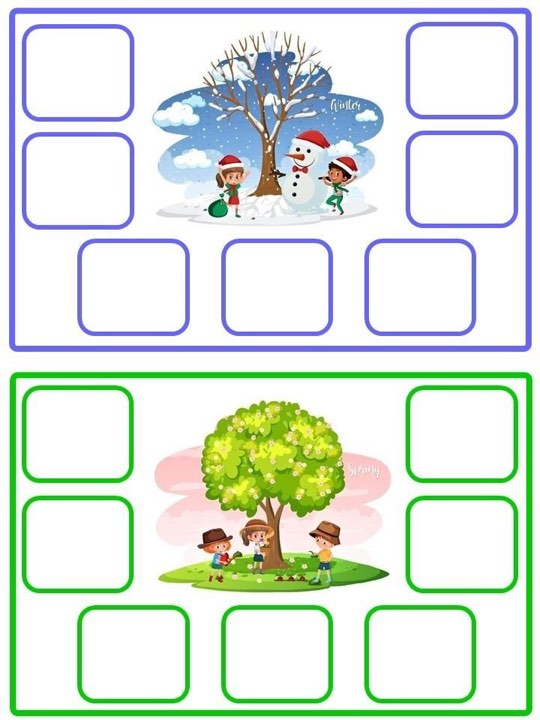
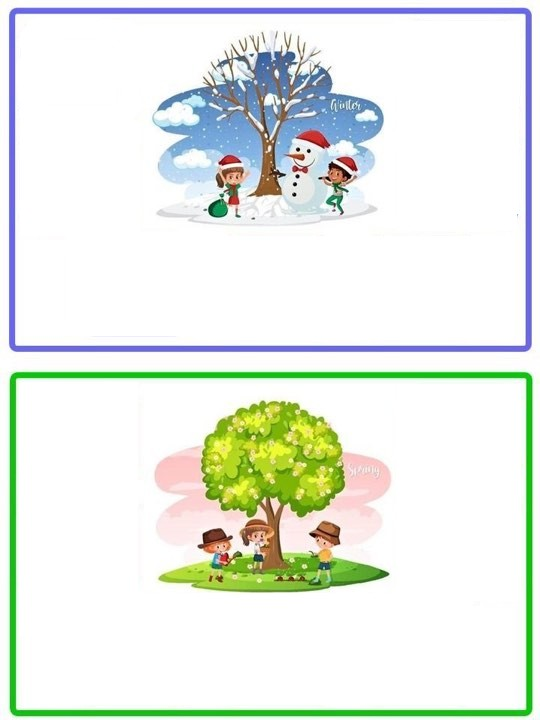
update 20:48 12/1/2024

diff --git a/game.css b/game.css
@@ -1695,10 +1695,7 @@ h3 {
   height: 9em;
 }
 
-.row {
-  display: flex;
-  margin-left: 600px;
-}
+
 
 .image-container {
   width: 150px;
@@ -2100,7 +2097,7 @@ h3 {
   -webkit-user-select: none;
   touch-action: manipulation;
   position: absolute;
-  bottom: 20%;
+  bottom: 10%;
   left: 60%;
 
 }
@@ -2342,7 +2339,8 @@ h3 {
     height: 70px;
     padding: 10px;
     border-radius: 16px;
-    background: white;
+    
+    
 }
 
 .droppable11 img {
@@ -2362,80 +2360,97 @@ h3 {
     position: absolute;
     left: 0;
     height: 100%;
+    width: 40%;
 }
 
 #draggable-row11{
-    margin-left: 600px;
+   margin-left: 400px;
+   
 }
+
 .droppable11:first-child{
-    position: absolute;
-    left: 28px;
-    top: 31px;
+  position: absolute;
+  left: 2%;
+  top: 3%;
+  border: 5px solid #6f6ed2;
 }
 .droppable11:nth-child(2){
     position: absolute;
-    left: 27px;
-    top: 142px;
+    left: 2%;
+    top: 18%;
+    border: 5px solid #6f6ed2;
 }
 .droppable11:nth-child(3){
     position: absolute;
-    left:86px;
-    top: 250px;
+    left:5%;
+    top: 33%;
+    border: 5px solid #6f6ed2;
 }
 .droppable11:nth-child(4){
     position: absolute;
-    left: 233px;
-    top: 250px;
+    left: 17%;
+    top: 33%;
+    border: 5px solid #6f6ed2;
 }
 .droppable11:nth-child(5){
     position: absolute;
-    left: 380px;
-    top: 250px;
+    left: 28%;
+    top: 33%;
+    border: 5px solid #6f6ed2;
 }
 .droppable11:nth-child(6){
     position: absolute;
-    left: 424px;
-    top: 140px;
+    left: 31%;
+    top: 18%;
+    border: 5px solid #6f6ed2;
 }
 .droppable11:nth-child(7) {
   position: absolute;
-  left: 424px;
-  top: 27px;
+  left: 31%;
+  top: 3%;
+  border: 5px solid #6f6ed2;
 }
 .droppable11:nth-child(8){
     position: absolute;
-    left: 28px;
-    top: 402px;
+    left: 2%;
+    top: 54%;
+    border: 5px solid #12c30d;
 }
 .droppable11:nth-child(9){
     position: absolute;
-    left: 28px;
-    top: 516px;
+    left: 2%;
+    top: 69%;
+    border: 5px solid #12c30d;
 }
 .droppable11:nth-child(10){
-    position: absolute;
-    left: 233px;
-    top: 629px;
+  position: absolute;
+  left: 5%;
+  top: 85%;
+  border: 5px solid #12c30d;
 }
 .droppable11:nth-child(11){
-    position: absolute;
-    left: 85px;
-    top: 630px;
+  position: absolute;
+  left: 17%;
+  top: 85%;
+  border: 5px solid #12c30d;
 }
 .droppable11:nth-child(12){
-    position: absolute;
-    left: 381px;
-    top: 630px;
+  position: absolute;
+  left: 28%;
+  border: 5px solid #12c30d;
+  top: 85%;
 }
 .droppable11:nth-child(13){
-    position: absolute;
-    left: 424px;
-    top: 516px;
+  position: absolute;
+  left: 31%;
+  border: 5px solid #12c30d;
+  top: 69%;
 }
 .droppable11:nth-child(14){
-    position: absolute;
-    left: 424px;
-    top: 403px;
+  position: absolute;
+  left: 31%;
+  top: 54%;
+  border: 5px solid #12c30d;
 }
 .droppable11 img {
   display: none;
@@ -2458,6 +2473,7 @@ h3 {
   top: 50%;
   left: 50%;
   transform: translate(-50%, -50%);
+  border: 5px solid #f9e300;
 }
 
 .modal-content .container-vinhdanh:nth-child(2){

diff --git a/game.html b/game.html
@@ -729,7 +729,7 @@
         </div>
         <img class="background-game11" src="./images/match-game11.jpg" alt="">
         
-        <div class="row" id="draggable-row11">
+        <div class="row draggable-row11" id="draggable-row11">
             <div class="image-container-drag" id="draggable1" data-drag="1" draggable11="true">
                 <img src="./images/answer13-game11.jpg" alt="Normal Image 1">
             </div>
@@ -739,7 +739,8 @@
             <div class="image-container-drag" id="draggable3" data-drag="1" draggable11="true">
                 <img src="./images/answer15-game11.jpg" alt="Normal Image 3">
             </div>
-           
+           </div>
+           <div class="row draggable-row11" id="draggable-row11">
             <div class="image-container-drag" id="draggable7" data-drag="1" draggable11="true">
                 <img src="./images/answer21-game11.jpg" alt="Normal Image 7">
             </div>
@@ -754,7 +755,7 @@
                 <img src="./images/answer7-game11.jpg" alt="Normal Image 7">
             </div>
         </div>
-        <div class="row" id="draggable-row11">
+        <div class="row draggable-row11" id="draggable-row11">
           
             <div class="image-container-drag" id="draggable8" data-drag="2" draggable11="true">
                 <img src="./images/answer12-game11.jpg" alt="Normal Image 8">
@@ -765,6 +766,8 @@
             <div class="image-container-drag" id="draggable4" data-drag="1" draggable11="true">
                 <img src="./images/answer16-game11.jpg" alt="Normal Image 4">
             </div>
+            </div>
+            <div class="row draggable-row11" id="draggable-row11">
             <div class="image-container-drag" id="draggable5" data-drag="1" draggable11="true">
                 <img src="./images/answer19-game11.jpg" alt="Normal Image 5">
             </div>

diff --git a/game.js b/game.js
@@ -2033,6 +2033,8 @@ const draggableElements11 = Array.from(draggableRow11.children);
 // Shuffle the array
 shuffleArray11(draggableElements11);
 
+
+
 // Append shuffled elements back to the row
 draggableElements11.forEach(element => {
   draggableRow11.appendChild(element);
@@ -2113,11 +2115,13 @@ function checkResults11() {
   if (allCorrect) {
     // Nếu đúng hết, hiển thị thông điệp chúc mừng
     showCongratulations();
+   
   } else {
     // Nếu có ít nhất một cặp không khớp, hiển thị thông điệp sai và làm mới trang
     displayWrongMessage();
-    
+   
   }
 }
+
 
 // END GAME11/////////////////////////////////////////////////////
